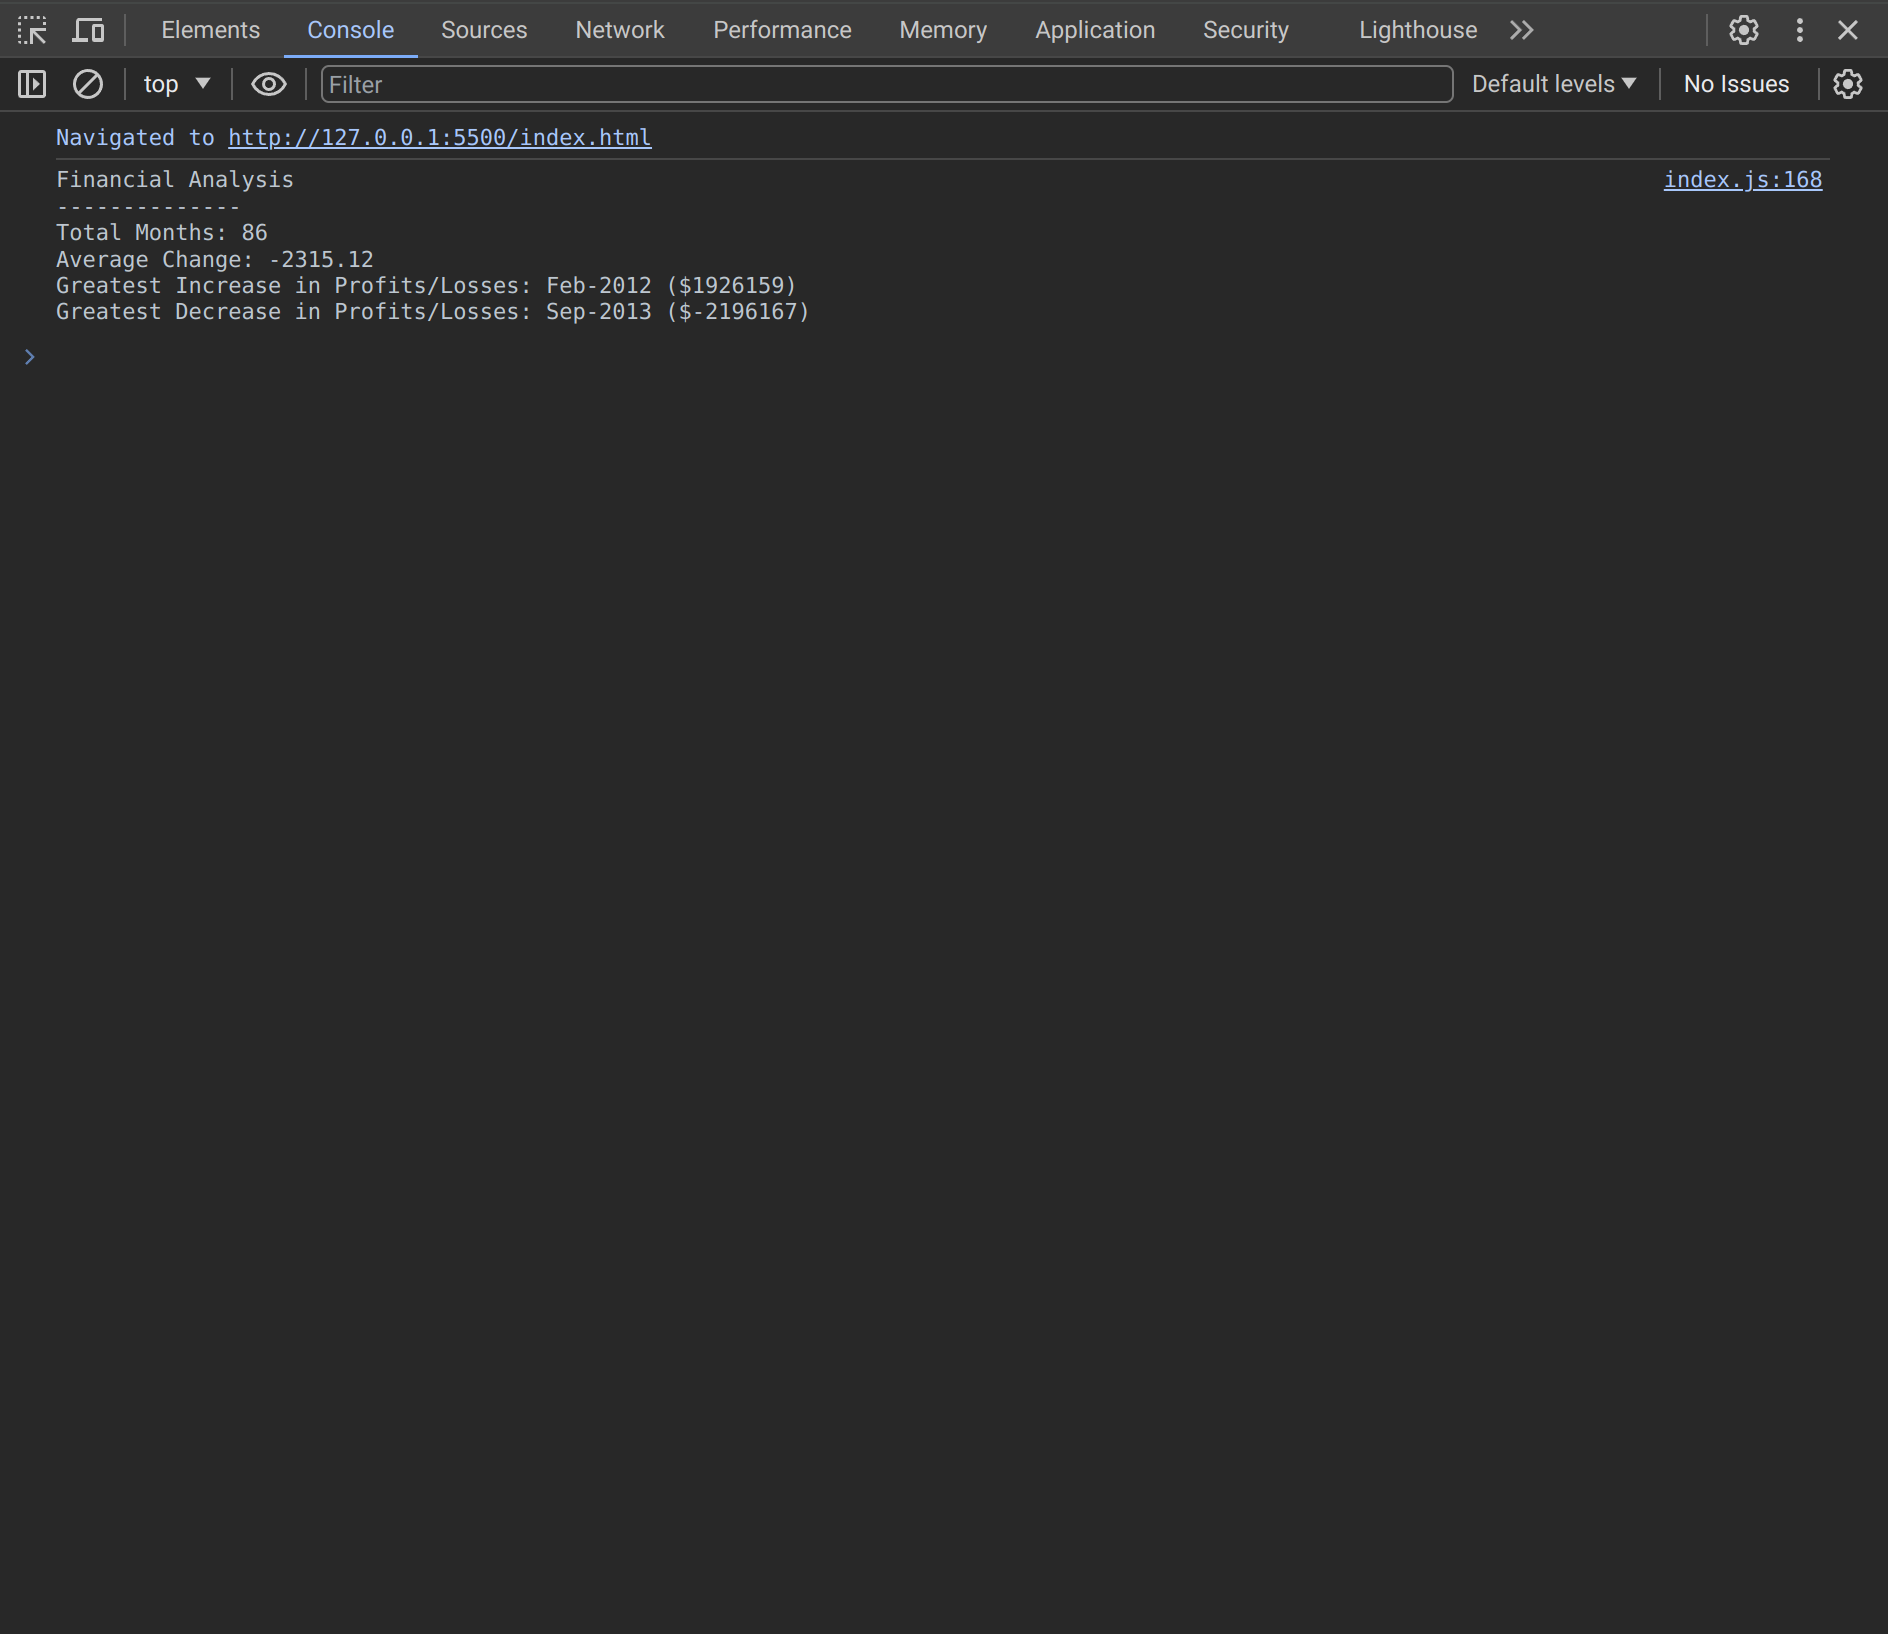
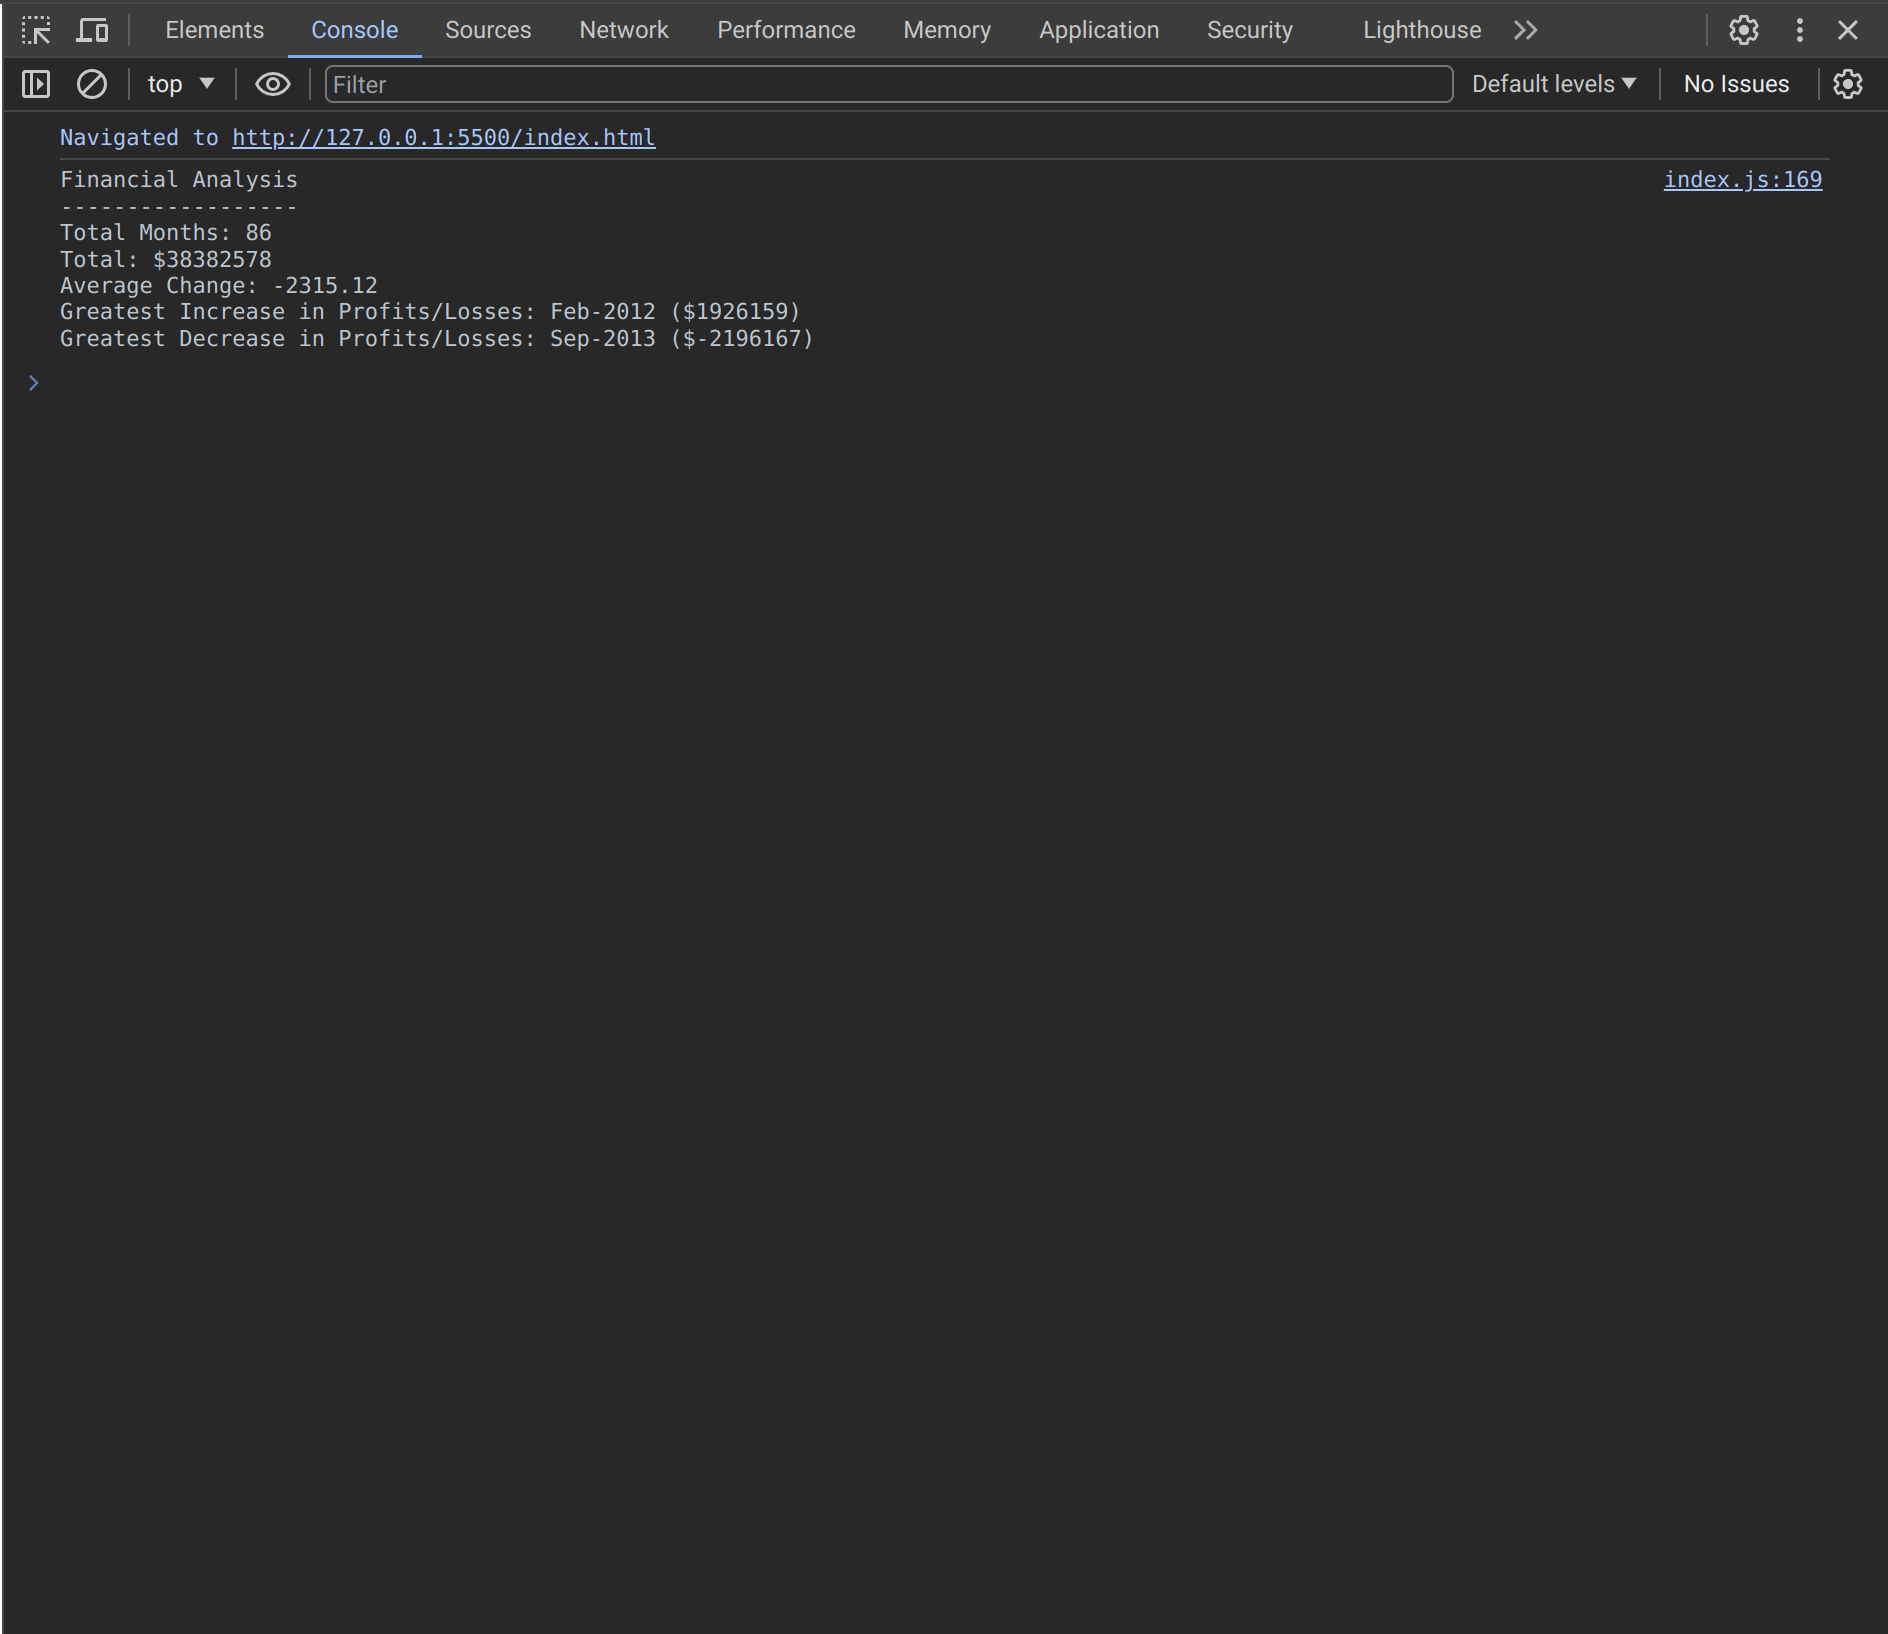
Add total profit analysis to final report. update screenshot to show the new complete report.

diff --git a/index.js b/index.js
@@ -161,12 +161,13 @@ const getMaxDecrease = function (data) {
 // Log everything to the console based on the provided format
 const displayAnalysis = function () {
     const noMonth = getNoMonth(finances);
+    const netProfit = getNetProfit(finances);
     const averageChange = getAverageChange(finances);
     const maxIncrease = getMaxIncrease(finances);
     const maxDecrease = getMaxDecrease(finances);
 
     console.log(
-        `Financial Analysis\n------------------\n${noMonth}\n${averageChange}\n${maxIncrease}\n${maxDecrease}\n`
+        `Financial Analysis\n------------------\n${noMonth}\n${netProfit}\n${averageChange}\n${maxIncrease}\n${maxDecrease}\n`
     );
 };
 
